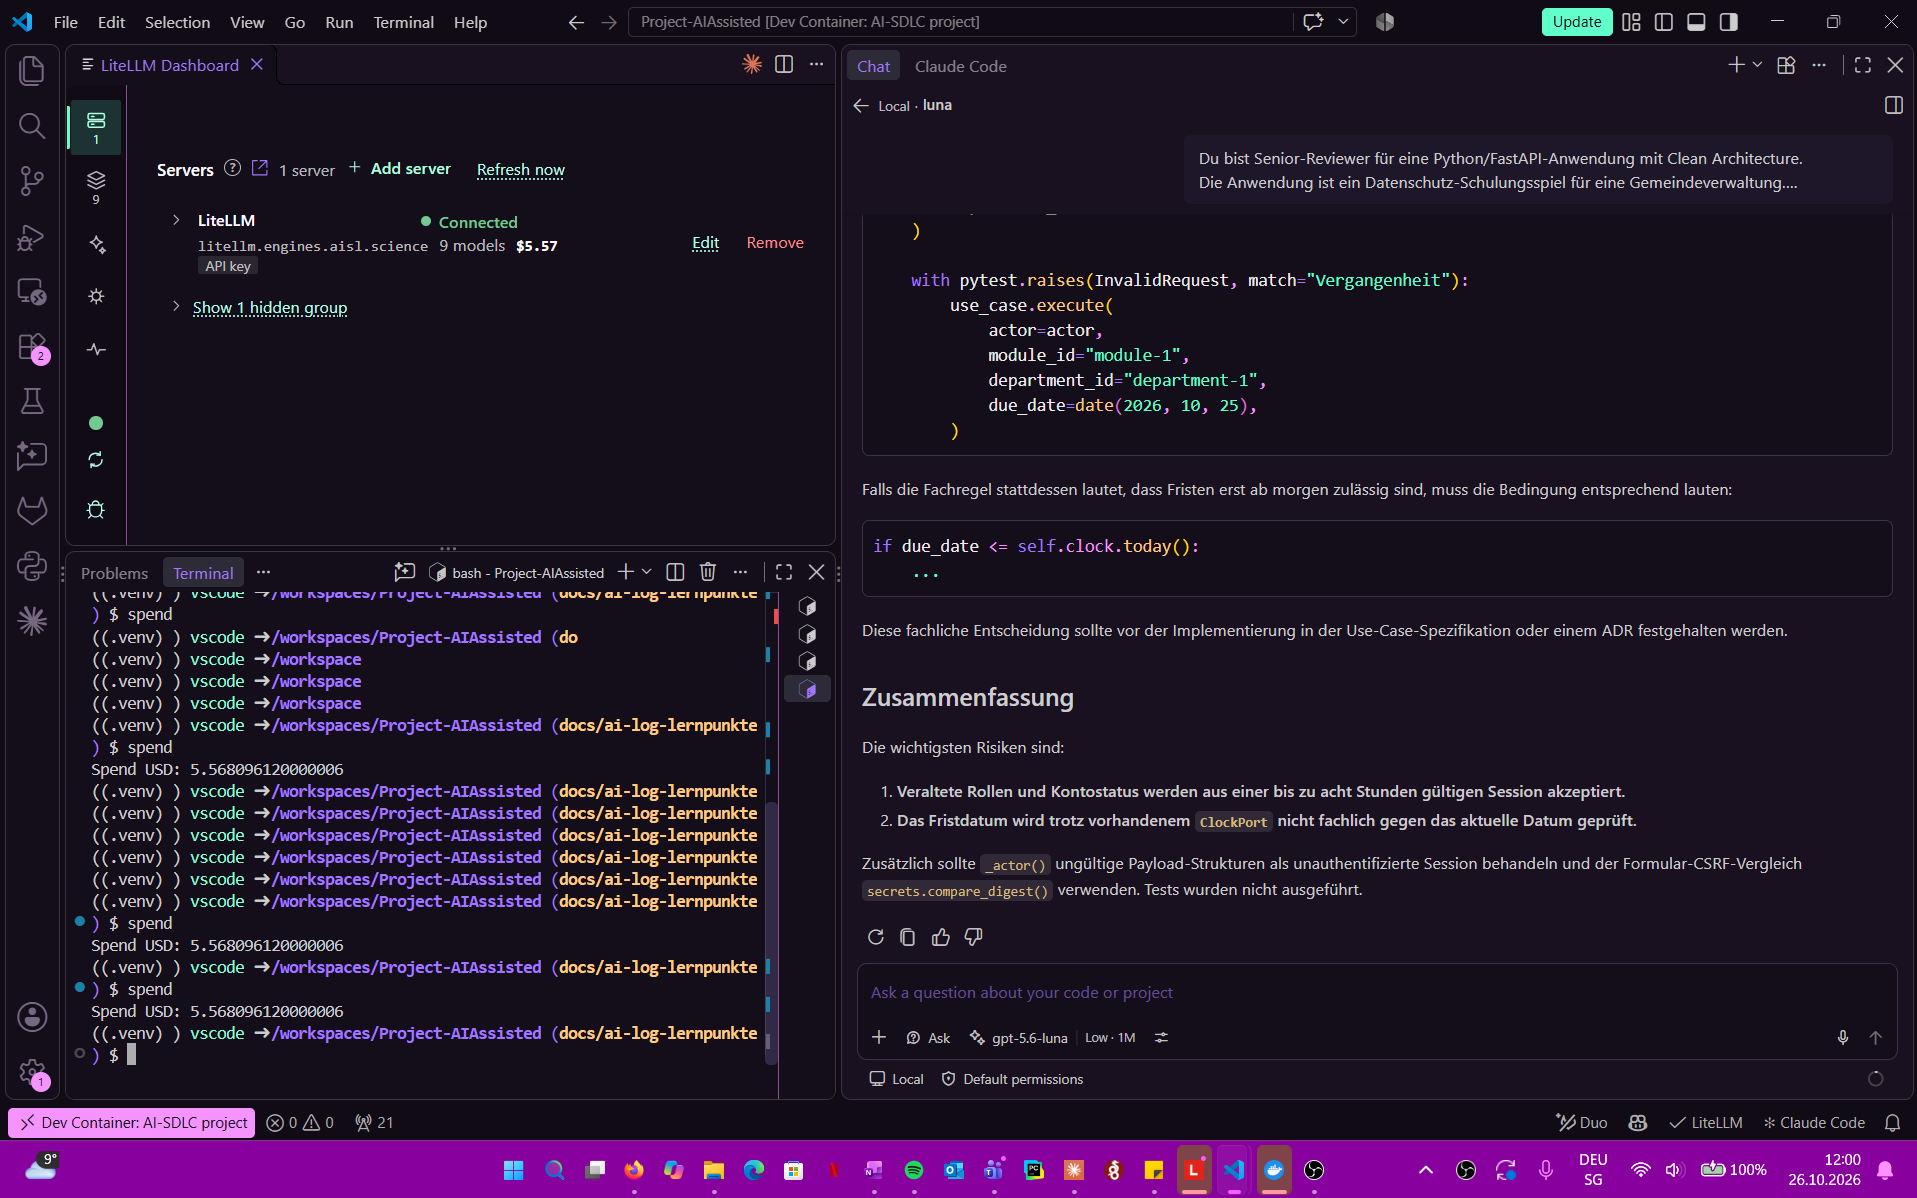
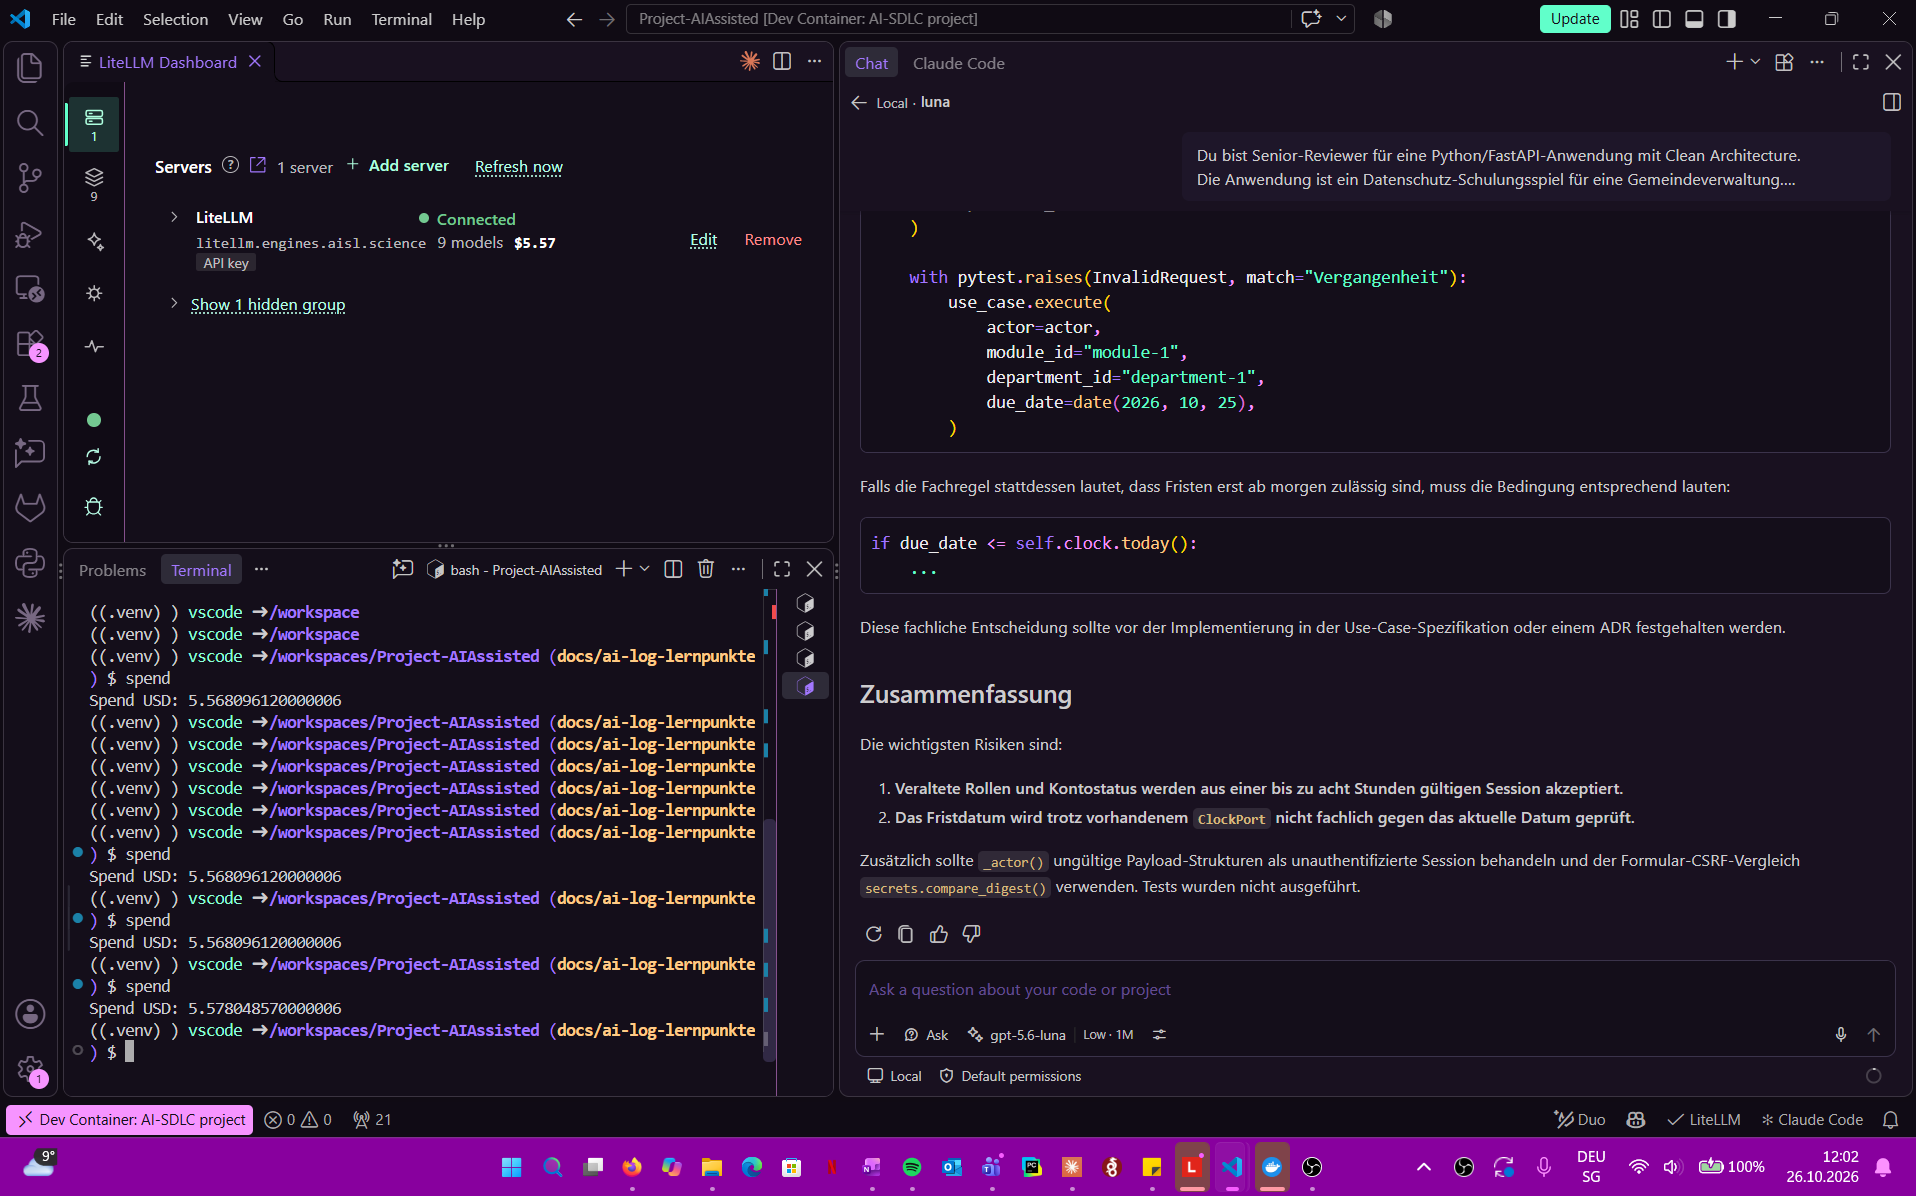
docs: Spend Zusatzlauf Low und Verzögerung von LiteLLM festhalten
Claude-Session: https://claude.ai/code/session_01G6QDtVTy8UWjEbAJySs5MG

diff --git a/docs/MODELLVERGLEICH.md b/docs/MODELLVERGLEICH.md
@@ -90,9 +90,9 @@ Denkstufe ab?
 
 | Messwert | Wert |
 |---|---|
-| Zeit | folgt |
-| Spend vorher / nachher | 5.568096120 / folgt |
-| Kosten | folgt |
+| Zeit | nicht abgelesen |
+| Spend vorher / nachher | 5.568096120 / 5.578048570 USD (Wert erst einige Minuten nach dem Lauf sichtbar) |
+| Kosten | **0.0100 USD**; kann theoretisch auch verspätet verbuchte Kosten von Lauf B enthalten |
 | Antwort | [antwort-modell-a-low.md](modellvergleich/antwort-modell-a-low.md) |
 | Bewertung | folgt (Sibslusi) |
 
@@ -101,4 +101,7 @@ Denkstufe ab?
 - Copilot Ask hat standardmässig Lese- und Suchwerkzeuge für den Workspace aktiv (20 Werkzeuge).
   Beide Modelle hätten also zusätzlich Dateien lesen können. Die Werkzeuge wurden für beide Läufe
   gleich gelassen.
+- **LiteLLM verbucht den Spend verzögert.** Direkt nach dem Low-Lauf stand der Spend noch unverändert,
+  erst ein paar Minuten später kam die Differenz. Die 0.0000 USD bei Granite sind deshalb nicht ganz
+  sicher. Für künftige Messungen: nach dem Lauf 2–3 Minuten warten, dann `spend`.
 - Pro Modell ein Lauf; Ergebnisse können bei Wiederholung abweichen.
